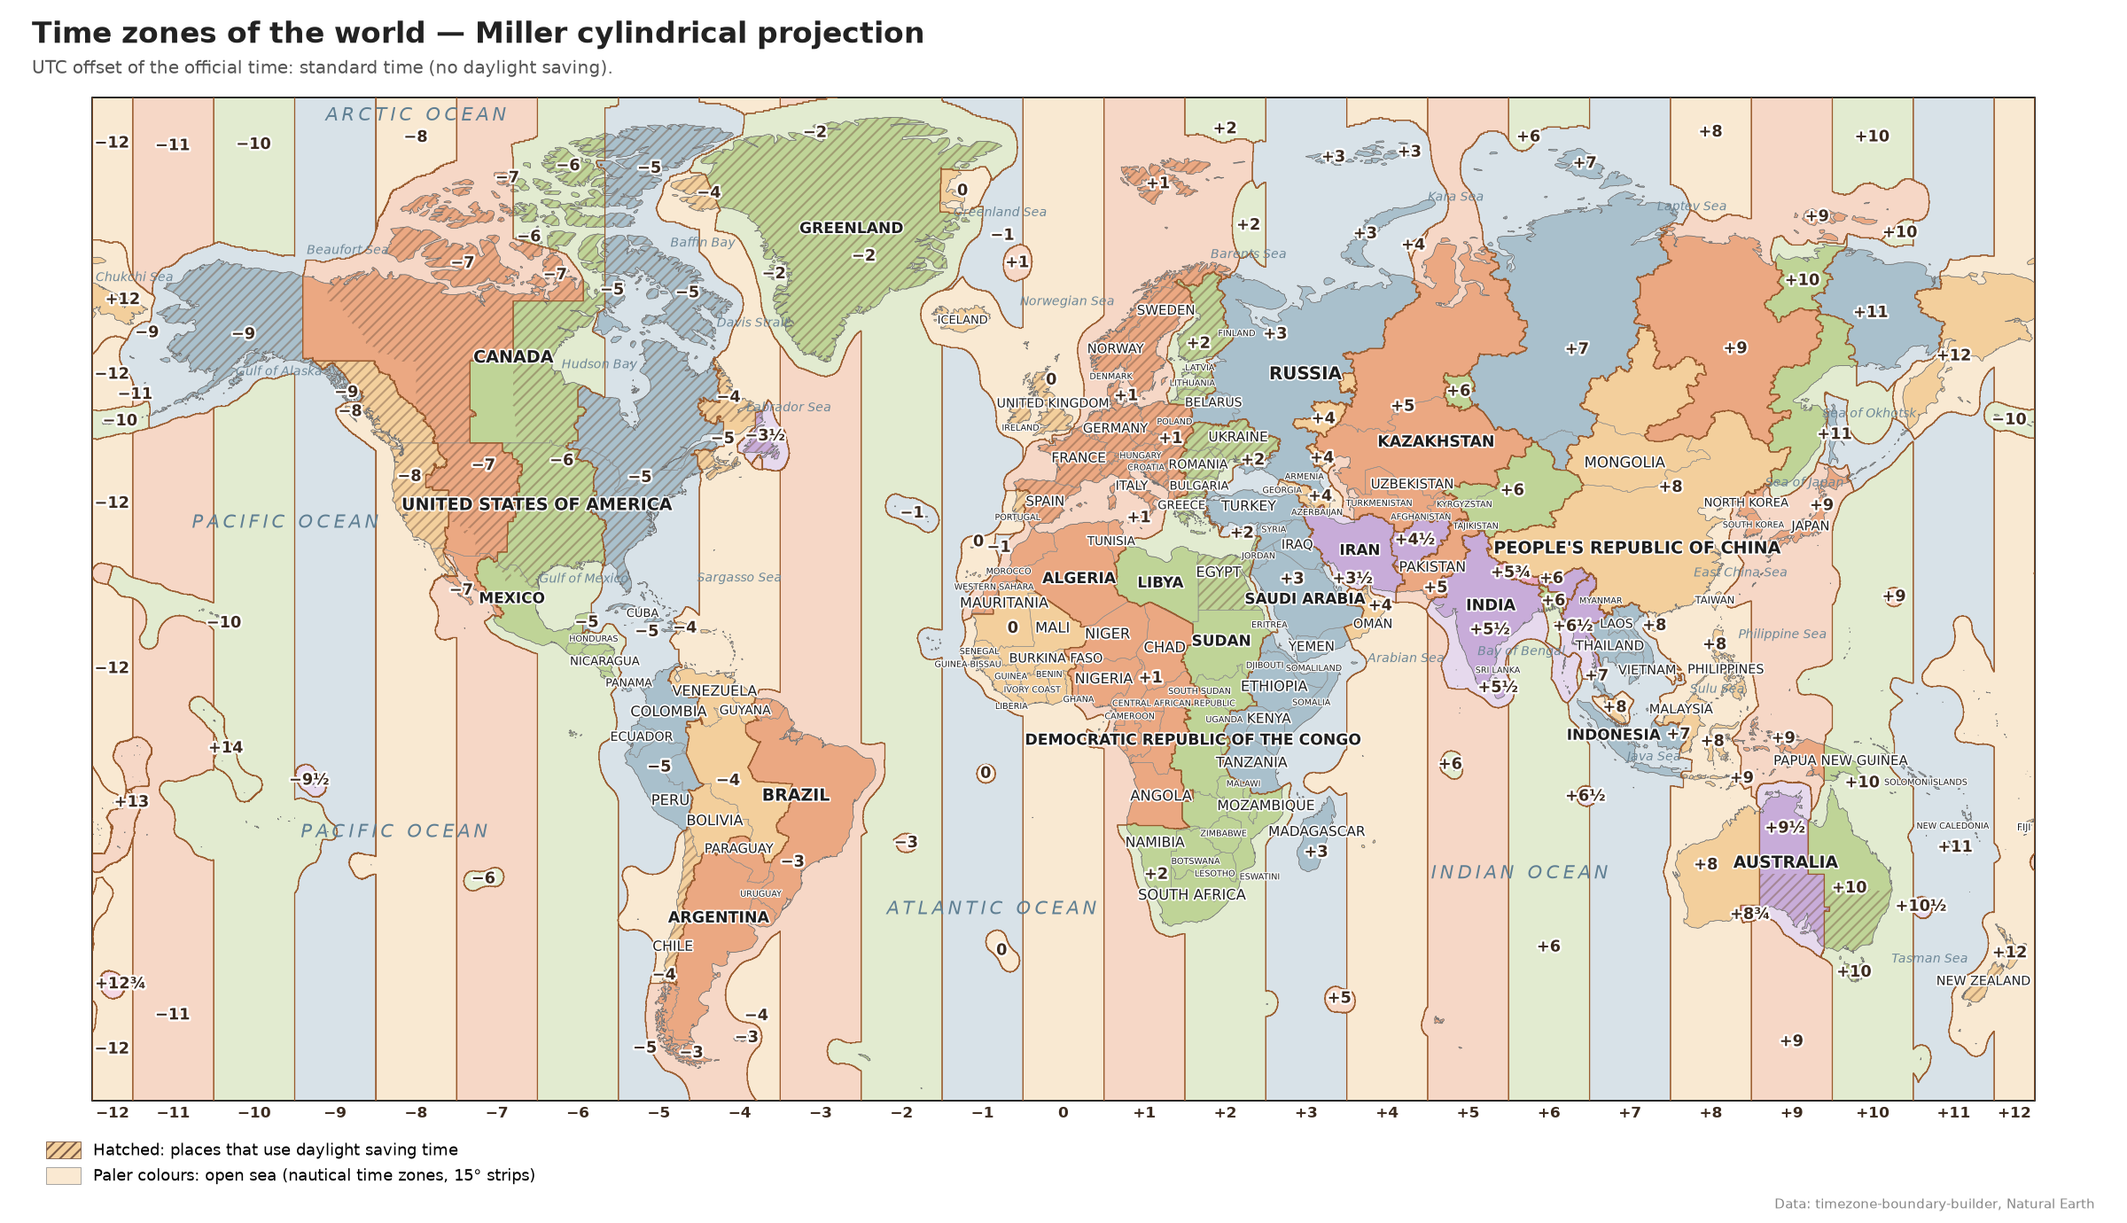
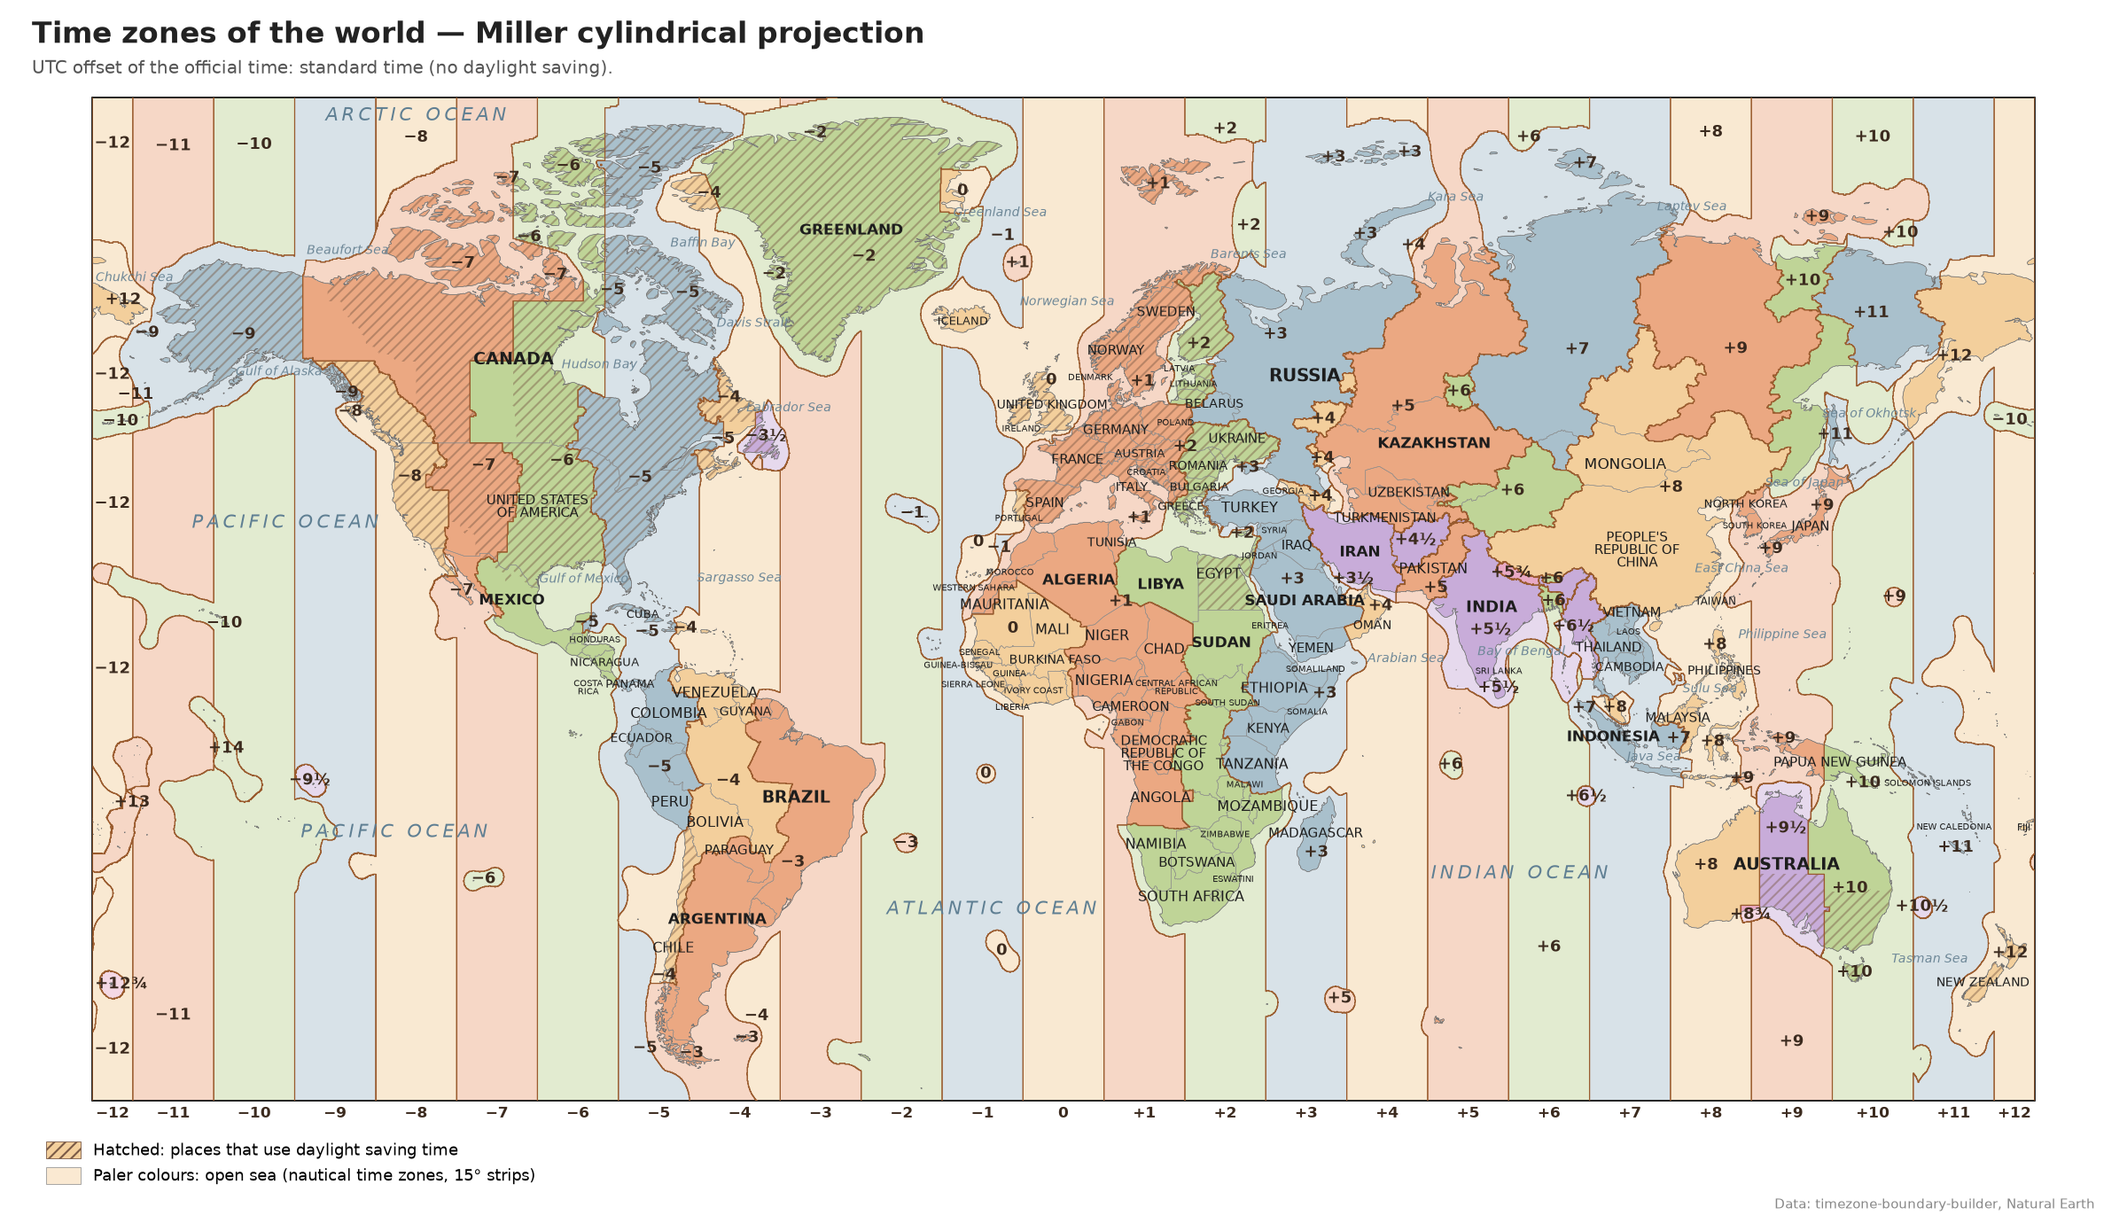
solar_time_map: lighter labels, long names in lines, more names in svg/pdf
- No white outline on names and offsets
- Long country names: medium size at most, not bold, in 2-3 lines
- svg/pdf output: smaller names, all countries, island groups in italics
  (Natural Earth regions plus Madeira, Galapagos, Easter Island, Chatham)
- Small-country labels never placed over another country
- Regenerated README images

diff --git a/solar_time_map.py b/solar_time_map.py
@@ -45,6 +45,7 @@ import datetime as dt
 import locale
 import os
 import sys
+import textwrap
 import urllib.request
 import warnings
 from zoneinfo import ZoneInfo, ZoneInfoNotFoundError
@@ -55,7 +56,6 @@ import matplotlib.pyplot as plt
 from matplotlib import font_manager
 from matplotlib.colors import LinearSegmentedColormap
 import matplotlib.patches as mpatches
-import matplotlib.patheffects as pe
 
 import geopandas as gpd
 import rasterio.features
@@ -63,6 +63,7 @@ from rasterio.transform import from_origin
 from scipy.ndimage import distance_transform_edt
 import shapely.geometry
 from shapely.ops import polylabel
+from shapely.prepared import prep
 import cartopy.crs as ccrs
 
 warnings.filterwarnings("ignore", message="Geometry is in a geographic CRS")
@@ -80,7 +81,28 @@ URLS = {
                           "master/geojson/ne_50m_admin_0_countries.geojson"),
     "marine.geojson": ("https://raw.githubusercontent.com/nvkelso/natural-earth-vector/"
                        "master/geojson/ne_50m_geography_marine_polys.geojson"),
+    "regions.geojson": ("https://raw.githubusercontent.com/nvkelso/natural-earth-vector/"
+                        "master/geojson/ne_50m_geography_regions_polys.geojson"),
 }
+
+# Island groups missing from Natural Earth's regions (lon, lat, names), for svg/pdf
+EXTRA_ISLANDS = [
+    (-16.95, 32.75, {"en": "Madeira", "pt": "Madeira", "es": "Madeira", "fr": "Madère",
+                     "de": "Madeira", "it": "Madera", "ru": "Мадейра", "zh": "马德拉群岛",
+                     "ja": "マデイラ諸島", "ar": "ماديرا"}),
+    (-90.5, -0.6, {"en": "Galápagos Islands", "pt": "Galápagos", "es": "Islas Galápagos",
+                   "fr": "Îles Galápagos", "de": "Galápagos-Inseln", "it": "Isole Galápagos",
+                   "ru": "Галапагосские острова", "zh": "加拉帕戈斯群岛", "ja": "ガラパゴス諸島",
+                   "ar": "جزر غالاباغوس"}),
+    (-109.35, -27.1, {"en": "Easter Island", "pt": "Ilha de Páscoa", "es": "Isla de Pascua",
+                      "fr": "Île de Pâques", "de": "Osterinsel", "it": "Isola di Pasqua",
+                      "ru": "Остров Пасхи", "zh": "复活节岛", "ja": "イースター島",
+                      "ar": "جزيرة القيامة"}),
+    (-176.5, -43.9, {"en": "Chatham Islands", "pt": "Ilhas Chatham", "es": "Islas Chatham",
+                     "fr": "Îles Chatham", "de": "Chathaminseln", "it": "Isole Chatham",
+                     "ru": "Острова Чатем", "zh": "查塔姆群岛", "ja": "チャタム諸島",
+                     "ar": "جزر تشاتام"}),
+]
 
 # key: (cartopy factory, latitude limits or None for the whole globe)
 PROJECTIONS = {
@@ -663,8 +685,8 @@ def country_name_column(countries):
 # ----------------------------------------------------------------------------
 # Drawing
 # ----------------------------------------------------------------------------
-def draw(offset, is_land, antarctica, dst, zones, land, countries, marine, projection, limit,
-         date, names, output, show, mode, res):
+def draw(offset, is_land, antarctica, dst, zones, land, countries, marine, islands,
+         projection, limit, date, names, output, show, mode, res):
     factory, lat_lim = PROJECTIONS[projection]
     pc = ccrs.PlateCarree()
 
@@ -718,8 +740,11 @@ def draw(offset, is_land, antarctica, dst, zones, land, countries, marine, proje
     #   4. names of the other countries
     #   5. (time-zone map) names of the oceans, seas and bays
     #   6. UTC offsets of the large regions (largest first)
+    #   (vector output) names of the small countries and of island groups
     zones_map = mode == "zones"
-    halo = [pe.withStroke(linewidth=2.2, foreground="white")]
+    # svg/pdf can be zoomed: there is room for many more small names
+    detail = os.path.splitext(output or "")[1].lower() in (".svg", ".pdf")
+    small_font = 3.5 if detail else 4.6
     regions = regions.assign(area=regions.geometry.area).sort_values("area", ascending=False)
     small = regions["area"] < 200
     placed = []                 # (offset, point) of every offset label
@@ -735,12 +760,18 @@ def draw(offset, is_land, antarctica, dst, zones, land, countries, marine, proje
                 if lab.text(p.x, p.y, format_offset(v), transform=pc,
                             fontsize=8.5 if zones_map else 7.5,
                             fontweight="bold", color="#3b2a1e", ha="center", va="center",
-                            path_effects=halo, zorder=6, margin=1):
+                            zorder=6, margin=1):
                     placed.append((v, p))
                     break
 
     def inside_map(p):
         return not lat_lim or lat_lim[0] + 1 < p.y < lat_lim[1] - 1
+
+    # Beside a small country or island: a ring of spots around (x, y)
+    def beside(x, y):
+        return [shapely.geometry.Point(x + dx, y + dy)
+                for dx, dy in ((-3, 0), (3, 0), (0, 2), (0, -2), (-5, 0), (5, 0),
+                               (-4, 2), (4, 2), (-4, -2), (4, -2), (0, 3.5))]
 
     # Country names, all in capitals, sized by the country's area; when the
     # usual spot is taken, a few other points inside the country are tried
@@ -750,29 +781,72 @@ def draw(offset, is_land, antarctica, dst, zones, land, countries, marine, proje
         sel = countries[countries["CONTINENT"] != "Antarctica"]
         area_km2 = sel.geometry.to_crs("ESRI:54009").area / 1e6       # Mollweide
         size = np.clip(3.2 + 1.5 * np.log10(area_km2.clip(lower=1) / 1000), 0, 10.5)
-        sel = sel.assign(size=size)[size >= 5].sort_values("size", ascending=False)
+        # long names ("República Democrática do Congo", in two lines) would
+        # dominate their neighbours: at most the size of a medium country, not bold
+        long_name = sel[col].fillna(sel["NAME"]).str.len() > 18
+        size = np.where(long_name, np.minimum(size, 7.2), size)
+        if detail:      # a little smaller overall, leaving room for small countries
+            size = np.maximum(size - 1.7, small_font)
+        sel = sel.assign(size=size)
+        sel = sel[sel["size"] >= (small_font if detail else 5)].sort_values("size", ascending=False)
+
+    def two_lines(name, longer_than=18):
+        """Splits a long name at the space nearest its middle (very long names,
+        such as "República Democrática do Congo", in three lines)."""
+        if len(name) <= longer_than or " " not in name or LANG in ("zh", "ja"):
+            return name
+        if len(name) > 24:
+            return "\n".join(textwrap.wrap(name, 12, break_on_hyphens=False,
+                                           break_long_words=False))
+        spaces = [i for i, ch in enumerate(name) if ch == " "]
+        i = min(spaces, key=lambda i: abs(i - len(name) / 2))
+        return name[:i] + "\n" + name[i + 1:]
+
+    land_shape = prep(land.union_all())
 
     def label_countries(rows):
         for _, r in rows.iterrows():
-            name = (str(r[col]) if r[col] else str(r["NAME"])).upper()
+            name = two_lines((str(r[col]) if r[col] else str(r["NAME"])).upper())
             main_part = max(getattr(r.geometry, "geoms", [r.geometry]), key=lambda g: g.area)
             spots = [shapely.geometry.Point(r["LABEL_X"], r["LABEL_Y"])] + label_points(main_part, 5)[:6]
-            tries = [(r["size"], p) for p in spots]
-            if zones_map and r["size"] < 7.5:
+            tries = [(name, r["size"], p) for p in spots]
+            if (zones_map or detail) and r["size"] < 7.5:
                 # small countries in crowded areas (Portugal, Benelux): a smaller
-                # font, inside or just beside the country
-                x, y = r["LABEL_X"], r["LABEL_Y"]
-                beside = [shapely.geometry.Point(x + dx, y + dy)
-                          for dx, dy in ((-3, 0), (3, 0), (0, 2), (0, -2), (-5, 0), (5, 0),
-                                         (-4, 2), (4, 2), (-4, -2), (4, -2), (0, 3.5))]
-                tries += [(4.6, p) for p in spots + beside]
-            any(lab.text(p.x, p.y, shape(name), transform=pc, fontsize=fs,
+                # font, inside or just beside the country, also in two lines
+                # (never over another country: only at sea or inside this one)
+                around = spots + [p for p in beside(r["LABEL_X"], r["LABEL_Y"])
+                                  if not land_shape.contains(p) or r.geometry.contains(p)]
+                for fs in (small_font, 2.8) if detail else (small_font,):
+                    tries += [(n, fs, p) for n in dict.fromkeys([name, two_lines(name, 0)])
+                              for p in around]
+            any(lab.text(p.x, p.y, shape(n), transform=pc, fontsize=fs,
                          color="#1d1d1d", ha="center", va="center",
-                         fontweight="bold" if fs >= 8 else "normal",
-                         path_effects=[pe.withStroke(linewidth=1.6 if fs > 5 else 1.2,
-                                                     foreground="white")],
+                         fontweight="bold" if fs >= 8 else "normal", linespacing=0.95,
                          zorder=5, margin=2 if fs > 5 else 1)
-                for fs, p in tries if inside_map(p))
+                for n, fs, p in tries if inside_map(p))
+
+    def label_islands():
+        """Island groups (Azores, Canaries, Hawaii, Line Islands ...) in italics."""
+        icol = f"NAME_{LANG.upper()}" if f"NAME_{LANG.upper()}" in islands.columns else "NAME"
+        taken = {str(n).lower() for c in ("NAME", "NAME_EN", col) for n in countries[c]}
+        groups = islands[(islands["FEATURECLA"] == "Island group") & (islands["SCALERANK"] >= 1)]
+        groups = groups[groups.geometry.area < 100]             # not the West Indies, Sunda ...
+        rows = [(names_.get(LANG, names_["en"]), shapely.geometry.Point(x, y).buffer(1.5))
+                for x, y, names_ in EXTRA_ISLANDS]
+        rows += [(str(r[icol] or r["NAME"]), r.geometry)
+                 for _, r in groups.sort_values("SCALERANK").iterrows()
+                 if str(r["NAME_EN"]).lower() not in taken and str(r[icol]).lower() not in taken]
+        named = []              # areas of the groups already named: skip their islands
+        for name, geom in rows:
+            p = geom.representative_point()
+            if any(a.contains(p) for a in named):
+                continue        # e.g. Oahu or Maui once "Hawaiian Islands" is there
+            for q in filter(inside_map, [p] + beside(p.x, p.y)):
+                if lab.text(q.x, q.y, shape(name), transform=pc, fontsize=small_font + 0.3,
+                            style="italic", color="#2b2b2b", ha="center", va="center",
+                            zorder=5, margin=1):
+                    named.append(geom.envelope.buffer(1.5))
+                    break
 
     def label_marine():
         """Oceans (capitals, spaced letters) and the main seas, gulfs and bays."""
@@ -792,10 +866,7 @@ def draw(offset, is_land, antarctica, dst, zones, land, countries, marine, proje
                             ha="center", va="center", zorder=5):
                     break
 
-    label_countries(sel[sel["size"] >= 7.5])
-    label_offsets(regions[small & (regions["area"] >= 3)])
-    if zones_map:
-        label_countries(sel[(sel["size"] >= 6) & (sel["size"] < 7.5)])
+    def label_land_offsets():
         # The land part of a zone often merges with the nautical strip of the same
         # offset (eastern USA and the Atlantic −5), so it gets a label of its own
         on_land = is_land & ~antarctica & ~np.isnan(offset)
@@ -807,7 +878,18 @@ def draw(offset, is_land, antarctica, dst, zones, land, countries, marine, proje
         land_regions = land_regions.assign(area=land_regions.geometry.area)
         land_regions = land_regions[land_regions["area"] >= 0.8].sort_values("area", ascending=False)
         label_offsets(land_regions, skip_near=8)
+
+    label_countries(sel[sel["size"] >= 7.5])
+    label_offsets(regions[small & (regions["area"] >= 3)])
+    if zones_map:
+        label_countries(sel[(sel["size"] >= 6) & (sel["size"] < 7.5)])
+        if not detail:
+            label_land_offsets()
     label_countries(sel[sel["size"] < (6 if zones_map else 7.5)])
+    if zones_map and detail:    # in svg/pdf the small countries go before them
+        label_land_offsets()
+    if detail and names:
+        label_islands()
     if zones_map:
         label_marine()
     label_offsets(regions[~small], skip_near=6 if zones_map else None)
@@ -923,12 +1005,13 @@ def main():
     land = gpd.read_file(paths["land.geojson"])
     countries = gpd.read_file(paths["countries.geojson"])
     marine = gpd.read_file(paths["marine.geojson"])
+    islands = gpd.read_file(paths["regions.geojson"])
 
     output = a.output or ("time_zones_map.png" if a.mode == "zones" else "solar_time_map.png")
     offset, is_land, antarctica, dst, zones = compute_grid(timezones, land, a.res, a.sea_margin,
                                                             a.island_join)
-    draw(offset, is_land, antarctica, dst, zones, land, countries, marine, a.projection, a.limit,
-         date, not a.no_names, output, a.show, a.mode, a.res)
+    draw(offset, is_land, antarctica, dst, zones, land, countries, marine, islands,
+         a.projection, a.limit, date, not a.no_names, output, a.show, a.mode, a.res)
 
 
 if __name__ == "__main__":

diff --git a/CLAUDE.md b/CLAUDE.md
@@ -61,10 +61,17 @@ python3 earth_moon_sun.py --scenes 2 --lang en
   fusos do Canadá, como no mapa da Wikipédia. `--island-join 0` volta ao comportamento antigo.
 - As linhas e os rótulos de desvio são desenhados a partir dessa grelha vetorizada
   (`rasterio.features.shapes`) e unida por desvio; as cores em terra usam o desvio do fuso civil.
-- Nomes dos países: todos em maiúsculas, tamanho pela área (Mollweide), todos os países com
-  ≥ ~15 000 km². Cada nome tenta vários pontos dentro do país; no mapa dos fusos, os países pequenos
-  tentam ainda letra menor ao lado do país (Portugal fica ao lado de "ESPANHA"). A Bélgica e os
-  Países Baixos ainda não cabem no Miller.
+- Nomes dos países: todos em maiúsculas, sem contorno branco (o utilizador não o quer), tamanho
+  pela área (Mollweide), todos os países com ≥ ~15 000 km². Nomes com mais de 18 letras ficam no
+  máximo do tamanho de um país médio, sem negrito, em 2 linhas (> 24 letras: 3 linhas). Cada nome
+  tenta vários pontos dentro do país; no mapa dos fusos, os países pequenos tentam ainda letra menor
+  dentro ou ao lado do país, nunca sobre outro país (Portugal fica ao lado de "ESPANHA").
+- Em `.svg`/`.pdf` (`detail` em `draw`): todos os nomes 1,7 pt mais pequenos, todos os países (até
+  os micro-estados), letra mínima 2,8 pt, e arquipélagos em itálico (Natural Earth
+  `regions.geojson`, "Island group", mais `EXTRA_ISLANDS`: Madeira, Galápagos, Páscoa, Chatham;
+  uma ilha não aparece se o arquipélago já tem nome). Na Europa central ainda não cabem todos
+  (faltam p. ex. Áustria/Luxemburgo/Bósnia/Montenegro no Miller em svg). Pôr os países mais
+  pequenos primeiro foi testado e ficou pior (a Alemanha e a França passavam para letra pequena).
 - Ordem dos rótulos (o primeiro a ocupar o lugar ganha): nomes dos países grandes, desvios das
   regiões pequenas (< 200 graus², ilhas com fuso próprio), [fusos: nomes médios e desvio de cada
   parte em terra], restantes nomes, [fusos: oceanos e mares], desvios das regiões grandes. Cada

diff --git a/README.pt.md b/README.pt.md
@@ -146,13 +146,17 @@ pastel por desvio UTC (as meias horas e os quartos de hora têm cores
 próprias), cores mais claras no mar alto e, riscados, os locais com hora de
 verão. Mostra também os nomes dos oceanos e dos principais mares e baías e, nas
 projeções cilíndricas (`miller`, `mercator`), o desvio de cada faixa de 15° por
-baixo do mapa. Com `--date`, o mapa mostra os desvios em vigor nesse dia e o riscado
+baixo do mapa. Gravado em `.svg` ou `.pdf`, que se podem ampliar, o mapa (em
+qualquer modo) mostra também, em letra pequena, os países pequenos e muitos
+arquipélagos (Açores, Madeira, Canárias, Havai, Espórades Equatoriais...). Com
+`--date`, o mapa mostra os desvios em vigor nesse dia e o riscado
 marca onde a hora de verão está em vigor. As outras opções funcionam como
 acima (`--limit` só se aplica ao mapa da hora solar).
 
 ```bash
 python solar_time_map.py --mode zones -p miller --lang pt   # time_zones_map.png
 python solar_time_map.py --mode zones --date 2026-07-01 --lang pt
+python solar_time_map.py --mode zones -p miller --lang pt -o fusos.svg   # mais nomes
 ```
 
 | Opção | Significado |

diff --git a/README.md b/README.md
@@ -144,7 +144,9 @@ UTC offset (half and quarter hours have colours of their own), paler colours
 over the open sea, and the places that use daylight saving time hatched. It
 also names the oceans and the main seas and bays, and, on cylindrical
 projections (`miller`, `mercator`), writes the offset of each 15° strip under
-the map. With
+the map. Saved as `.svg` or `.pdf`, which can be zoomed, the map (either mode)
+also names the small countries and many island groups (Azores, Madeira,
+Canary Islands, Hawaii, Line Islands ...) in small type. With
 `--date` the map shows the offsets in force on that day, and the hatching
 marks where daylight saving time is in force. All other options work as
 above (`--limit` only applies to the solar map).
@@ -152,6 +154,7 @@ above (`--limit` only applies to the solar map).
 ```bash
 python solar_time_map.py --mode zones -p miller             # time_zones_map.png
 python solar_time_map.py --mode zones --date 2026-07-01 --lang pt
+python solar_time_map.py --mode zones -p miller -o time_zones.svg   # more names
 ```
 
 | Option | Meaning |
